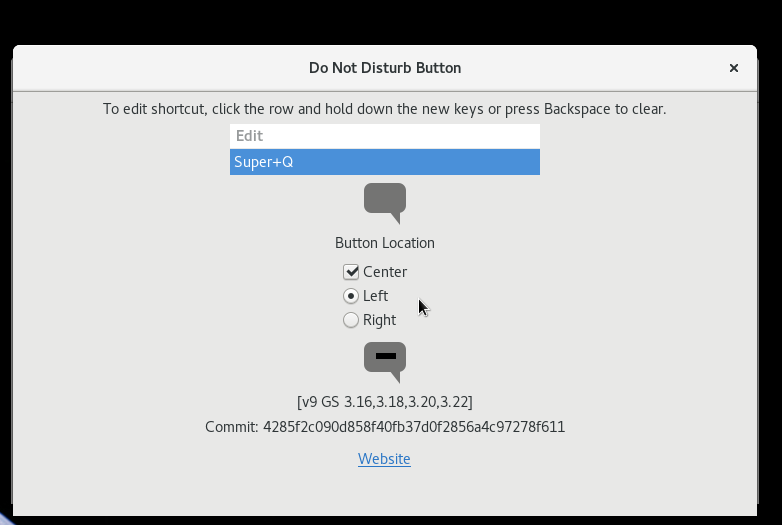
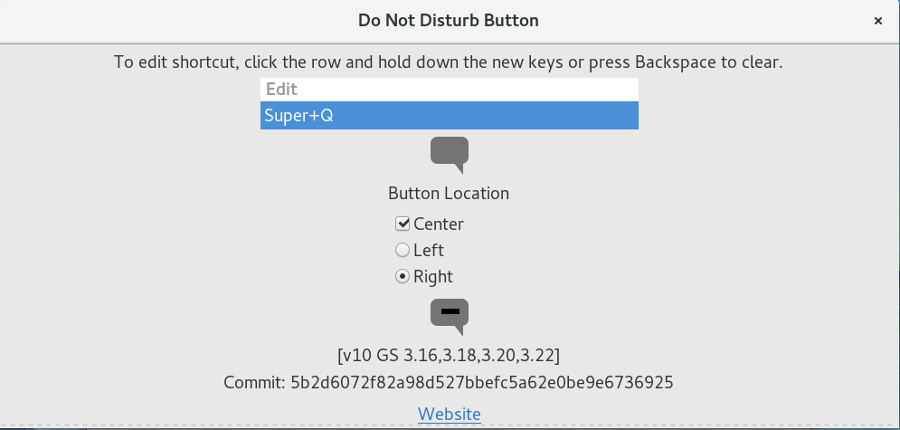
Updated copyright and license statements and zip version and prefs img

Changed region(s): [[0.0, 0.0, 1.0, 1.0], [0.5217, 0.5744, 0.5524, 0.6047]]

diff --git a/donotdisturb_button_zip.html b/donotdisturb_button_zip.html
@@ -22,6 +22,7 @@
 <p>With the <strong>secondary mouse button</strong>, click (v)ersion number in first column, then open link in a new tab or window to download.</p>
 <table>
 <tr><td><h3>Do Not Disturb Button</h3></td><td>&nbsp&nbsp&nbsp</td><td><h3>Gnome Shell Version(s)</h3></td></tr>
+<tr><td><a href="https://extensions.gnome.org/review/download/6435.shell-extension.zip">v10</a></td><td>&nbsp&nbsp&nbsp</td><td><strong>3.16 3.18 3.20 3.22</strong></td></tr>
 <tr><td><a href="https://extensions.gnome.org/review/download/6400.shell-extension.zip">v9</a></td><td>&nbsp&nbsp&nbsp</td><td><strong>3.16 3.18 3.20 3.22</strong></td></tr>
 <tr><td><a href="https://extensions.gnome.org/review/download/6357.shell-extension.zip">v8</a></td><td>&nbsp&nbsp&nbsp</td><td><strong>3.16 3.18 3.20 3.22</strong></td></tr>
 <tr><td><a href="https://extensions.gnome.org/review/download/6297.shell-extension.zip">v7</a></td><td>&nbsp&nbsp&nbsp</td><td><strong>3.16 3.18 3.20 3.22 3.21.90 3.21.91 3.21.92</strong></td></tr>

diff --git a/extension_reloader_zip.html b/extension_reloader_zip.html
@@ -22,6 +22,7 @@
 <p>With the <strong>secondary mouse button</strong>, click (v)ersion number in first column, then open link in a new tab or window to download.</p>
 <table>
 <tr><td><h3>Gnome Shell Extension Reloader</h3></td><td>&nbsp&nbsp&nbsp</td><td><h3>Gnome Shell Version(s)</h3></td></tr>
+<tr><td><a href="https://extensions.gnome.org/review/download/6436.shell-extension.zip">v2</a></td><td>&nbsp&nbsp&nbsp</td><td><strong>3.20 3.22</strong></td></tr>
 <tr><td><a href="https://extensions.gnome.org/review/download/6402.shell-extension.zip">v1</a></td><td>&nbsp&nbsp&nbsp</td><td><strong>3.20 3.22</strong></td></tr>
 </table>
   </body>

diff --git a/latestupdate.html b/latestupdate.html
@@ -17,7 +17,10 @@ Install Activities Configurator from the Gnome Shell Extension Website
 <a href=./ego_zips_index.html>
 Download the zip-file for the Activities Configurator extension from the Gnome Shell Extension Website.
 </a>
-<h4>Latest Update Version 51 GS 3.16 3.18 3.20 3.22</h4>
+<h4>Latest Update Version 52 GS 3.16 3.18 3.20 3.22</h4>
+Updated copyright and license statements.<p>
+</p>
+<h4>Update Version 51 GS 3.16 3.18 3.20 3.22</h4>
 Updated metadata.json to remove development versions.  Added French translations by narzb.<p>
 </p>
 <h4>Version 50 GS 3.16 3.18 3.20 3.22 3.21.90 3.21.91 3.21.92</h4>

diff --git a/DNDlatestupdate.html b/DNDlatestupdate.html
@@ -19,7 +19,10 @@ Update or install the Do Not Disturb Button extension at the Gnome Shell Extensi
 Download the zip-file for the Do Not Disturb Button extension from the Gnome Shell Extension Website.
 </a>
 </h5>
-<h4>Latest Update Version 9 GS 3.16 3.18 3.20 3.22</h4>
+<h4>Latest Update Version 10 GS 3.16 3.18 3.20 3.22</h4>
+<p>Updated copyright and license statements.
+</p>
+<h4>Update Version 9 GS 3.16 3.18 3.20 3.22</h4>
 <p>Added preference to set location of the Do Not Disturb Button on the panel.
 </p>
 <h4>Update Version 8 GS 3.16 3.18 3.20 3.22</h4>

diff --git a/activities_config_zip.html b/activities_config_zip.html
@@ -27,6 +27,10 @@
 <td><h3>Gnome Shell Version(s)</h3></td>
 </tr>
 <tr>
+<td><a href="https://extensions.gnome.org/review/download/6434.shell-extension.zip">v51</a></td><td>&nbsp&nbsp&nbsp</td>
+<td><strong>3.16 3.18 3.20 3.22</strong></td>
+</tr>
+<tr>
 <td><a href="https://extensions.gnome.org/review/download/6376.shell-extension.zip">v51</a></td><td>&nbsp&nbsp&nbsp</td>
 <td><strong>3.16 3.18 3.20 3.22</strong></td>
 </tr>

diff --git a/GSERlatestupdate.html b/GSERlatestupdate.html
@@ -19,6 +19,9 @@ Update or install the Gnome Shell Extension Restarter extension at the Gnome She
 Download the zip-file for the Do Not Disturb Button extension from the Gnome Shell Extension Website.
 </a>
 </h5>
+<h4>Latest Update Version 2 GS 3.20 3.22</h4>
+<p>Updated copyright and license statements.
+</p>
 <h4>Latest Update Version 1 GS 3.20 3.22</h4>
 <p>Initial release.
 </p>
